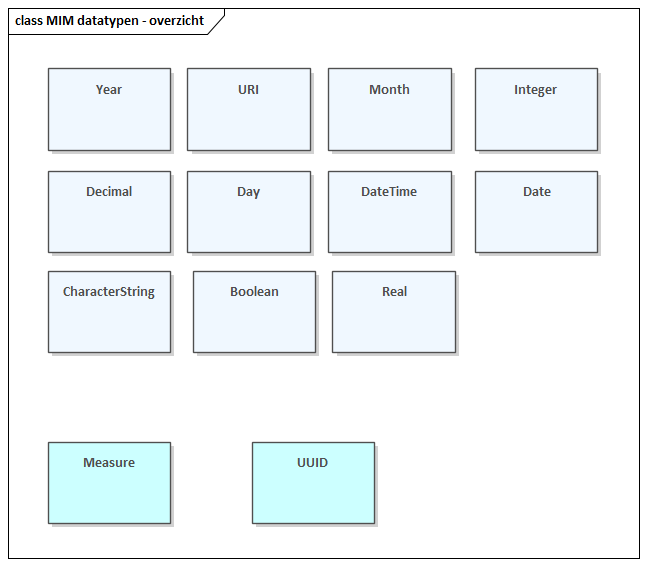
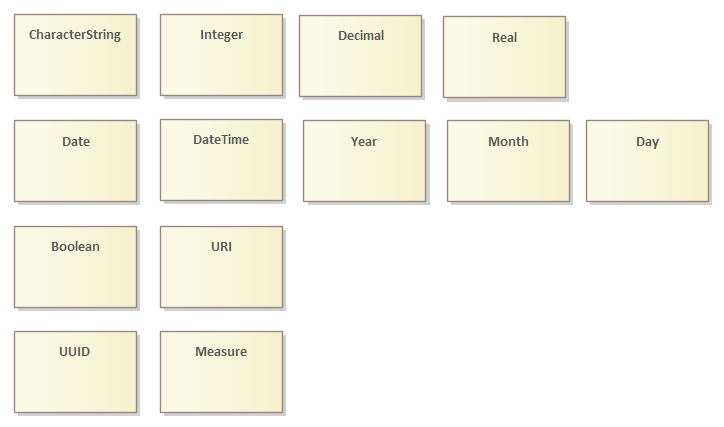
MIMCM-MIM-1.0-0-20240216-20260702-143346

diff --git a/data/mim-datatypen-cat.respec.html b/data/mim-datatypen-cat.respec.html
@@ -1,16 +1,18 @@
-<!DOCTYPE HTML><section id="cat" class="normative"><h2>Gegevensdefinitie</h2><!--MIMCM-MIM-1.0-0-20240216-20260306-113153 imvertor 4.5.0--><section id="EAID_17883B31_A5DA_413b_8BC8_4048AE36E1BD"><h3>   MIM datatypen - overzicht</h3><div class="imageinfo overview"><figure class="uml-diagram"><img id="EAID_17883B31_A5DA_413b_8BC8_4048AE36E1BD" src="data/Images/EAID_17883B31_A5DA_413b_8BC8_4048AE36E1BD.png" usemap="#imagemap-EAID_17883B31_A5DA_413b_8BC8_4048AE36E1BD" alt="Diagram: Overzicht van de primitieve datatypen uit het MIM model. Deze datatypen komen voor het merendeel uit ISO 19103:2024 Geographic information - Conceptual schema language."><figcaption> ‒ Diagram: MIM datatypen</figcaption></figure><map name="imagemap-EAID_17883B31_A5DA_413b_8BC8_4048AE36E1BD"><area shape="rect" alt="UUID" coords="252,442,375,524" href="#global_class_MIMdatatypen_UUID"><area shape="rect" alt="Measure" coords="48,442,171,524" href="#global_class_MIMdatatypen_Measure"><area shape="rect" alt="Year" coords="48,68,171,151" href="#global_class_MIMdatatypen_Year"><area shape="rect" alt="URI" coords="187,68,311,151" href="#global_class_MIMdatatypen_URI"><area shape="rect" alt="Month" coords="328,68,452,151" href="#global_class_MIMdatatypen_Month"><area shape="rect" alt="Integer" coords="475,68,598,151" href="#global_class_MIMdatatypen_Integer"><area shape="rect" alt="Decimal" coords="48,171,171,253" href="#global_class_MIMdatatypen_Decimal"><area shape="rect" alt="Day" coords="187,171,311,253" href="#global_class_MIMdatatypen_Day"><area shape="rect" alt="DateTime" coords="328,171,452,253" href="#global_class_MIMdatatypen_DateTime"><area shape="rect" alt="Date" coords="475,171,598,253" href="#global_class_MIMdatatypen_Date"><area shape="rect" alt="CharacterString" coords="48,271,171,353" href="#global_class_MIMdatatypen_CharacterString"><area shape="rect" alt="Boolean" coords="193,271,316,353" href="#global_class_MIMdatatypen_Boolean"><area shape="rect" alt="Real" coords="332,271,456,353" href="#global_class_MIMdatatypen_Real"></map><p>
+<!DOCTYPE HTML><section id="cat" class="normative"><h2>Gegevensdefinitie</h2><!--MIMCM-MIM-1.0-0-20240216-20260702-143346 imvertor 4.5.0--><section id="EAID_17883B31_A5DA_413b_8BC8_4048AE36E1BD"><h3>   MIM datatypen - overzicht</h3><div class="imageinfo overview"><figure class="uml-diagram"><img id="EAID_17883B31_A5DA_413b_8BC8_4048AE36E1BD" src="data/Images/EAID_17883B31_A5DA_413b_8BC8_4048AE36E1BD.png" usemap="#imagemap-EAID_17883B31_A5DA_413b_8BC8_4048AE36E1BD" alt="Diagram: Overzicht van de primitieve datatypen uit het MIM model. Deze datatypen komen voor het merendeel uit ISO 19103:2024 Geographic information - Conceptual schema language, maar kunnen daarin weer doorverwijzen naar andere standaarden."><figcaption> ‒ Diagram: MIM datatypen</figcaption></figure><map name="imagemap-EAID_17883B31_A5DA_413b_8BC8_4048AE36E1BD"><area shape="rect" alt="UUID" coords="14,331,137,413" href="#global_class_MIMdatatypen_UUID"><area shape="rect" alt="Measure" coords="160,331,283,413" href="#global_class_MIMdatatypen_Measure"><area shape="rect" alt="Year" coords="303,120,426,202" href="#global_class_MIMdatatypen_Year"><area shape="rect" alt="URI" coords="160,226,283,308" href="#global_class_MIMdatatypen_URI"><area shape="rect" alt="Month" coords="447,120,570,202" href="#global_class_MIMdatatypen_Month"><area shape="rect" alt="Integer" coords="160,14,283,96" href="#global_class_MIMdatatypen_Integer"><area shape="rect" alt="Decimal" coords="299,15,422,97" href="#global_class_MIMdatatypen_Decimal"><area shape="rect" alt="Day" coords="586,120,709,202" href="#global_class_MIMdatatypen_Day"><area shape="rect" alt="DateTime" coords="160,119,283,201" href="#global_class_MIMdatatypen_DateTime"><area shape="rect" alt="Date" coords="14,120,137,202" href="#global_class_MIMdatatypen_Date"><area shape="rect" alt="CharacterString" coords="14,14,137,96" href="#global_class_MIMdatatypen_CharacterString"><area shape="rect" alt="Boolean" coords="14,226,137,308" href="#global_class_MIMdatatypen_Boolean"><area shape="rect" alt="Real" coords="443,16,566,98" href="#global_class_MIMdatatypen_Real"></map><p>
                         <p>Overzicht van de primitieve datatypen uit het MIM model. </p>
                         <p></p>
-                        <p>Deze datatypen komen voor het merendeel uit ISO 19103:2024 Geographic information - Conceptual schema language.</p>
+                        <p>Deze datatypen komen voor het merendeel uit ISO 19103:2024 Geographic information - Conceptual schema language, maar kunnen daarin weer doorverwijzen naar andere standaarden.</p>
                      </p></div></section><section><h3>Primitieve datatypen   </h3>
             <section id="global_class_MIMdatatypen_Month"><h4>Primitief datatype   Month</h4>
                <table style="width: 100%;" class="overview OVERVIEW-PRIMITIVEDATATYPE"><colgroup style="width: 30%;"></colgroup><colgroup style="width: 70%;"></colgroup><tbody><tr><th scope="row">Naam</th><td>Month</td></tr><tr><th scope="row">Herkomst</th><td>
-                        ISO 19103-2024
+                        ISO 19103
                      </td></tr><tr><th scope="row">Definitie</th><td>
                         
                               <p>Eenheid van een tijdschaal gebaseerd op een verdeling van een kalenderjaar, waarbij elke maand een specifiek aantal kalenderdagen heeft.</p>
                            
-                     </td></tr><tr><th scope="row">Herkomst definitie</th><td> </td></tr><tr><th scope="row">Datum opname</th><td> </td></tr><tr><th scope="row">Toelichting</th><td>
+                     </td></tr><tr><th scope="row">Herkomst definitie</th><td>
+                        ISO 8601
+                     </td></tr><tr><th scope="row">Datum opname</th><td> </td></tr><tr><th scope="row">Toelichting</th><td>
                         
                               <p>In de Gregoriaanse kalender is een kalenderjaar verdeeld in 12 opeenvolgende kalendermaanden.
 2-cijferige maand uitgedrukt in mm conform </p>
@@ -19,12 +21,14 @@
             </section>
             <section id="global_class_MIMdatatypen_CharacterString"><h4>Primitief datatype   CharacterString</h4>
                <table style="width: 100%;" class="overview OVERVIEW-PRIMITIVEDATATYPE"><colgroup style="width: 30%;"></colgroup><colgroup style="width: 70%;"></colgroup><tbody><tr><th scope="row">Naam</th><td>CharacterString</td></tr><tr><th scope="row">Herkomst</th><td>
-                        ISO 19103-2024
+                        ISO 19103
                      </td></tr><tr><th scope="row">Definitie</th><td>
                         
                               <p>Gegevenstype voor een string van tekens van een standaard characterset.</p>
                            
-                     </td></tr><tr><th scope="row">Herkomst definitie</th><td> </td></tr><tr><th scope="row">Datum opname</th><td> </td></tr><tr><th scope="row">Toelichting</th><td>
+                     </td></tr><tr><th scope="row">Herkomst definitie</th><td>
+                        ISO/IEC 11404
+                     </td></tr><tr><th scope="row">Datum opname</th><td> </td></tr><tr><th scope="row">Toelichting</th><td>
                         
                               <p>Zie [iso-19103]. Vrij vertaald: alle alfanumerieke tekens en speciale tekens die horen bij de gekozen characterset (standaard UTF-8), dus met diakrieten, white spaces, -teken en newlines of HTML opmaak e.d. Mag starten met spatie. De maximale lengte is onbepaald.
 Opmerking: getallen (ISO Numbers) met voorloopnullen worden opgenomen als CharacterString, met een patroon of formeel patroon. Bij het metagegeven Waardenverzameling attribuutsoort wordt dit dan (ook) gespecificeerd.</p>
@@ -33,12 +37,14 @@ Opmerking: getallen (ISO Numbers) met voorloopnullen worden opgenomen als Charac
             </section>
             <section id="global_class_MIMdatatypen_Date"><h4>Primitief datatype   Date</h4>
                <table style="width: 100%;" class="overview OVERVIEW-PRIMITIVEDATATYPE"><colgroup style="width: 30%;"></colgroup><colgroup style="width: 70%;"></colgroup><tbody><tr><th scope="row">Naam</th><td>Date</td></tr><tr><th scope="row">Herkomst</th><td>
-                        ISO 19103-2024
+                        ISO 19103
                      </td></tr><tr><th scope="row">Definitie</th><td>
                         
                               <p>Gegevenstype voor een positie in tijd met een temporele resolutie van een dag.</p>
                            
-                     </td></tr><tr><th scope="row">Herkomst definitie</th><td> </td></tr><tr><th scope="row">Datum opname</th><td> </td></tr><tr><th scope="row">Toelichting</th><td>
+                     </td></tr><tr><th scope="row">Herkomst definitie</th><td>
+                        ISO/IEC 11404
+                     </td></tr><tr><th scope="row">Datum opname</th><td> </td></tr><tr><th scope="row">Toelichting</th><td>
                         
                               <p>4-cijferig jaar, 2-cijferig maand, 2-cijferig dag uitgedrukt in yyyy-mm-dd conform .
 Zie ook ISO/IEC 11404.</p>
@@ -47,21 +53,25 @@ Zie ook ISO/IEC 11404.</p>
             </section>
             <section id="global_class_MIMdatatypen_Measure"><h4>Primitief datatype   Measure</h4>
                <table style="width: 100%;" class="overview OVERVIEW-PRIMITIVEDATATYPE"><colgroup style="width: 30%;"></colgroup><colgroup style="width: 70%;"></colgroup><tbody><tr><th scope="row">Naam</th><td>Measure</td></tr><tr><th scope="row">Herkomst</th><td>
-                        ISO19103-2024
+                        ISO19103
                      </td></tr><tr><th scope="row">Definitie</th><td>
                         
                               <p>Een hoeveelheidswaarde die een meetresultaat vertegenwoordigt.</p>
                            
-                     </td></tr><tr><th scope="row">Herkomst definitie</th><td> </td></tr><tr><th scope="row">Datum opname</th><td> </td></tr></tbody></table>
+                     </td></tr><tr><th scope="row">Herkomst definitie</th><td>
+                        ISO 19103
+                     </td></tr><tr><th scope="row">Datum opname</th><td> </td></tr></tbody></table>
             </section>
             <section id="global_class_MIMdatatypen_DateTime"><h4>Primitief datatype   DateTime</h4>
                <table style="width: 100%;" class="overview OVERVIEW-PRIMITIVEDATATYPE"><colgroup style="width: 30%;"></colgroup><colgroup style="width: 70%;"></colgroup><tbody><tr><th scope="row">Naam</th><td>DateTime</td></tr><tr><th scope="row">Herkomst</th><td>
-                        ISO 19103-2024
+                        ISO 19103
                      </td></tr><tr><th scope="row">Definitie</th><td>
                         
                               <p>Gegevenstype voor posities in tijd met een temporele resolutie van een deel van een seconde.</p>
                            
-                     </td></tr><tr><th scope="row">Herkomst definitie</th><td> </td></tr><tr><th scope="row">Datum opname</th><td> </td></tr><tr><th scope="row">Toelichting</th><td>
+                     </td></tr><tr><th scope="row">Herkomst definitie</th><td>
+                        ISO/IEC 11404
+                     </td></tr><tr><th scope="row">Datum opname</th><td> </td></tr><tr><th scope="row">Toelichting</th><td>
                         
                               <p>yyyy-mm-ddThh:mm:ss conform 
 Zie ook ISO/IEC 11404</p>
@@ -70,12 +80,14 @@ Zie ook ISO/IEC 11404</p>
             </section>
             <section id="global_class_MIMdatatypen_Integer"><h4>Primitief datatype   Integer</h4>
                <table style="width: 100%;" class="overview OVERVIEW-PRIMITIVEDATATYPE"><colgroup style="width: 30%;"></colgroup><colgroup style="width: 70%;"></colgroup><tbody><tr><th scope="row">Naam</th><td>Integer</td></tr><tr><th scope="row">Herkomst</th><td>
-                        ISO 19103-2024
+                        ISO 19103
                      </td></tr><tr><th scope="row">Definitie</th><td>
                         
                               <p>Wiskundig gegevenstype bestaand uit exacte geheel getal.</p>
                            
-                     </td></tr><tr><th scope="row">Herkomst definitie</th><td> </td></tr><tr><th scope="row">Datum opname</th><td> </td></tr><tr><th scope="row">Toelichting</th><td>
+                     </td></tr><tr><th scope="row">Herkomst definitie</th><td>
+                        ISO/IEC 11404
+                     </td></tr><tr><th scope="row">Datum opname</th><td> </td></tr><tr><th scope="row">Toelichting</th><td>
                         
                               <p>Zie [iso-19103] (subtype van ISO Number). Vrij vertaald: geheel getal, lengte is minimaal 1 en maximale lengte is onbepaald, zonder voorloopnullen. Opmerking: t.a.v. positieve en negatieve getalen en + en - tekens: bijvoorbeeld -2,0 Het (formeel) patroon geeft aan of een + en/of - teken gebruikt mag worden in het gegeven.</p>
                            
@@ -83,12 +95,14 @@ Zie ook ISO/IEC 11404</p>
             </section>
             <section id="global_class_MIMdatatypen_URI"><h4>Primitief datatype   URI</h4>
                <table style="width: 100%;" class="overview OVERVIEW-PRIMITIVEDATATYPE"><colgroup style="width: 30%;"></colgroup><colgroup style="width: 70%;"></colgroup><tbody><tr><th scope="row">Naam</th><td>URI</td></tr><tr><th scope="row">Herkomst</th><td>
-                        ISO 19103-2024
+                        ISO 19103
                      </td></tr><tr><th scope="row">Definitie</th><td>
                         
                               <p>Character string die conformeert aan de syntax gedefinieerd in RFC 3986.</p>
                            
-                     </td></tr><tr><th scope="row">Herkomst definitie</th><td> </td></tr><tr><th scope="row">Datum opname</th><td> </td></tr><tr><th scope="row">Toelichting</th><td>
+                     </td></tr><tr><th scope="row">Herkomst definitie</th><td>
+                        ISO 19103
+                     </td></tr><tr><th scope="row">Datum opname</th><td> </td></tr><tr><th scope="row">Toelichting</th><td>
                         
                               <p>Unieke identificatie op internet conform RFC3986 en de URI-strategie Linked Open Data. Gestandaardiseerde manier om op het internet dingen (pagina's met informatie, objecten, datasets) uniek te identificeren.</p>
                            
@@ -96,12 +110,14 @@ Zie ook ISO/IEC 11404</p>
             </section>
             <section id="global_class_MIMdatatypen_Decimal"><h4>Primitief datatype   Decimal</h4>
                <table style="width: 100%;" class="overview OVERVIEW-PRIMITIVEDATATYPE"><colgroup style="width: 30%;"></colgroup><colgroup style="width: 70%;"></colgroup><tbody><tr><th scope="row">Naam</th><td>Decimal</td></tr><tr><th scope="row">Herkomst</th><td>
-                        ISO 19103-2024
+                        ISO 19103
                      </td></tr><tr><th scope="row">Definitie</th><td>
                         
                               <p>Een gegevenstype waarin het getal een exacte waarde vertegenwoordigt, als een eindige weergave van een decimaal getal. </p>
                            
-                     </td></tr><tr><th scope="row">Herkomst definitie</th><td> </td></tr><tr><th scope="row">Datum opname</th><td> </td></tr><tr><th scope="row">Toelichting</th><td>
+                     </td></tr><tr><th scope="row">Herkomst definitie</th><td>
+                        ISO 19103
+                     </td></tr><tr><th scope="row">Datum opname</th><td> </td></tr><tr><th scope="row">Toelichting</th><td>
                         
                               <p>Zie ook ISO/IEC 11404.
 Aangezien veel valuta's decimaal zijn, hebben deze weergaven de voorkeur bij het omgaan met dergelijke waarden.
@@ -112,12 +128,14 @@ Opmerking 2: t.a.v. positieve en negatieve getalen en + en - tekens: zie Integer
             </section>
             <section id="global_class_MIMdatatypen_Boolean"><h4>Primitief datatype   Boolean</h4>
                <table style="width: 100%;" class="overview OVERVIEW-PRIMITIVEDATATYPE"><colgroup style="width: 30%;"></colgroup><colgroup style="width: 70%;"></colgroup><tbody><tr><th scope="row">Naam</th><td>Boolean</td></tr><tr><th scope="row">Herkomst</th><td>
-                        ISO 19103-2024
+                        ISO 19103
                      </td></tr><tr><th scope="row">Definitie</th><td>
                         
                               <p>Wiskundig gegevenstype gerelateerd aan twee-waarde logica.</p>
                            
-                     </td></tr><tr><th scope="row">Herkomst definitie</th><td> </td></tr><tr><th scope="row">Datum opname</th><td> </td></tr><tr><th scope="row">Toelichting</th><td>
+                     </td></tr><tr><th scope="row">Herkomst definitie</th><td>
+                        ISO/IEC 11404
+                     </td></tr><tr><th scope="row">Datum opname</th><td> </td></tr><tr><th scope="row">Toelichting</th><td>
                         
                               <p>Indicatie met mogelijke waarden True, false, 1 of 0. True en 1 hebben een identieke betekenis: Ja. False en 0 hebben een identieke betekenis: Nee. Opmerking: t.a.v. Ja of Nee. 
 Wanneer u de Ja of Nee wilt gebruiken, gebruik dan bv. een Enumeratie genaamd Indicatie, of gebruik AN met een lengte en een (formeel) patroon.</p>
@@ -126,35 +144,45 @@ Wanneer u de Ja of Nee wilt gebruiken, gebruik dan bv. een Enumeratie genaamd In
             </section>
             <section id="global_class_MIMdatatypen_Day"><h4>Primitief datatype   Day</h4>
                <table style="width: 100%;" class="overview OVERVIEW-PRIMITIVEDATATYPE"><colgroup style="width: 30%;"></colgroup><colgroup style="width: 70%;"></colgroup><tbody><tr><th scope="row">Naam</th><td>Day</td></tr><tr><th scope="row">Herkomst</th><td>
-                        ISO 19103-2024
+                        ISO 19103
                      </td></tr><tr><th scope="row">Definitie</th><td>
+                        
+                              <p>Een kalenderdag binnen de Gregoriaanse kalender, weergegeven als onderdeel van een datum.</p>
+                           
+                     </td></tr><tr><th scope="row">Herkomst definitie</th><td>
+                        ISO 8601
+                     </td></tr><tr><th scope="row">Datum opname</th><td> </td></tr><tr><th scope="row">Toelichting</th><td>
                         
                               <p>2-cijferige dag uitgedrukt in dd conform </p>
                            
-                     </td></tr><tr><th scope="row">Herkomst definitie</th><td> </td></tr><tr><th scope="row">Datum opname</th><td> </td></tr></tbody></table>
+                     </td></tr></tbody></table>
             </section>
             <section id="global_class_MIMdatatypen_Year"><h4>Primitief datatype   Year</h4>
                <table style="width: 100%;" class="overview OVERVIEW-PRIMITIVEDATATYPE"><colgroup style="width: 30%;"></colgroup><colgroup style="width: 70%;"></colgroup><tbody><tr><th scope="row">Naam</th><td>Year</td></tr><tr><th scope="row">Herkomst</th><td>
-                        ISO 19103-2024
+                        ISO 19103
                      </td></tr><tr><th scope="row">Definitie</th><td>
                         
                               <p>Gegevenstype voor posities in tijd met een temporele resolutie van een jaar.</p>
                            
-                     </td></tr><tr><th scope="row">Herkomst definitie</th><td> </td></tr><tr><th scope="row">Datum opname</th><td> </td></tr><tr><th scope="row">Toelichting</th><td>
+                     </td></tr><tr><th scope="row">Herkomst definitie</th><td>
+                        ISO/IEC 11404
+                     </td></tr><tr><th scope="row">Datum opname</th><td> </td></tr><tr><th scope="row">Toelichting</th><td>
                         
                               <p>4-cijferig jaar uitgedrukt in yyyy conform .
-Zie ook See ISO/IEC 11404</p>
+Zie ook ISO/IEC 11404</p>
                            
                      </td></tr></tbody></table>
             </section>
             <section id="global_class_MIMdatatypen_UUID"><h4>Primitief datatype   UUID</h4>
                <table style="width: 100%;" class="overview OVERVIEW-PRIMITIVEDATATYPE"><colgroup style="width: 30%;"></colgroup><colgroup style="width: 70%;"></colgroup><tbody><tr><th scope="row">Naam</th><td>UUID</td></tr><tr><th scope="row">Herkomst</th><td>
-                        ISO 19103-2024
+                        ISO 19103
                      </td></tr><tr><th scope="row">Definitie</th><td>
                         
-                              <p>Gegevenstype waarvan de waarden conformeren aan ISO/IEC 9834-8.</p>
+                              <p>Een 128-bit identificator die unique is in ruimte en tijd binnen de ruimte van alle UUID's. De waarden conformeren aan ISO/IEC 9834-8.</p>
                            
-                     </td></tr><tr><th scope="row">Herkomst definitie</th><td> </td></tr><tr><th scope="row">Datum opname</th><td> </td></tr><tr><th scope="row">Toelichting</th><td>
+                     </td></tr><tr><th scope="row">Herkomst definitie</th><td>
+                        ISO 19103
+                     </td></tr><tr><th scope="row">Datum opname</th><td> </td></tr><tr><th scope="row">Toelichting</th><td>
                         
                               <p>Universal Unique Identifier</p>
                            
@@ -162,12 +190,14 @@ Zie ook See ISO/IEC 11404</p>
             </section>
             <section id="global_class_MIMdatatypen_Real"><h4>Primitief datatype   Real</h4>
                <table style="width: 100%;" class="overview OVERVIEW-PRIMITIVEDATATYPE"><colgroup style="width: 30%;"></colgroup><colgroup style="width: 70%;"></colgroup><tbody><tr><th scope="row">Naam</th><td>Real</td></tr><tr><th scope="row">Herkomst</th><td>
-                        ISO 19103-2024
+                        ISO 19103
                      </td></tr><tr><th scope="row">Definitie</th><td>
                         
                               <p>Zie [iso-19103] (subtype van ISO Number). Vrij vertaald: een real is een zwevendekommagetal, waarbij de precisie bepaald wordt door het aantal getoonde cijfers. Het getoonde getal is een schatting en geeft niet noodzakelijk de exacte waarde weer. </p>
                            
-                     </td></tr><tr><th scope="row">Herkomst definitie</th><td> </td></tr><tr><th scope="row">Datum opname</th><td> </td></tr><tr><th scope="row">Toelichting</th><td>
+                     </td></tr><tr><th scope="row">Herkomst definitie</th><td>
+                        ISO 19103
+                     </td></tr><tr><th scope="row">Datum opname</th><td> </td></tr><tr><th scope="row">Toelichting</th><td>
                         
                               <p>Dit verschilt van decimal, want decimal is een exacte waarde en real is geschat. Opmerking 2: t.a.v. positieve en negatieve getalen en + en - tekens: zie Integer.</p>
                            
